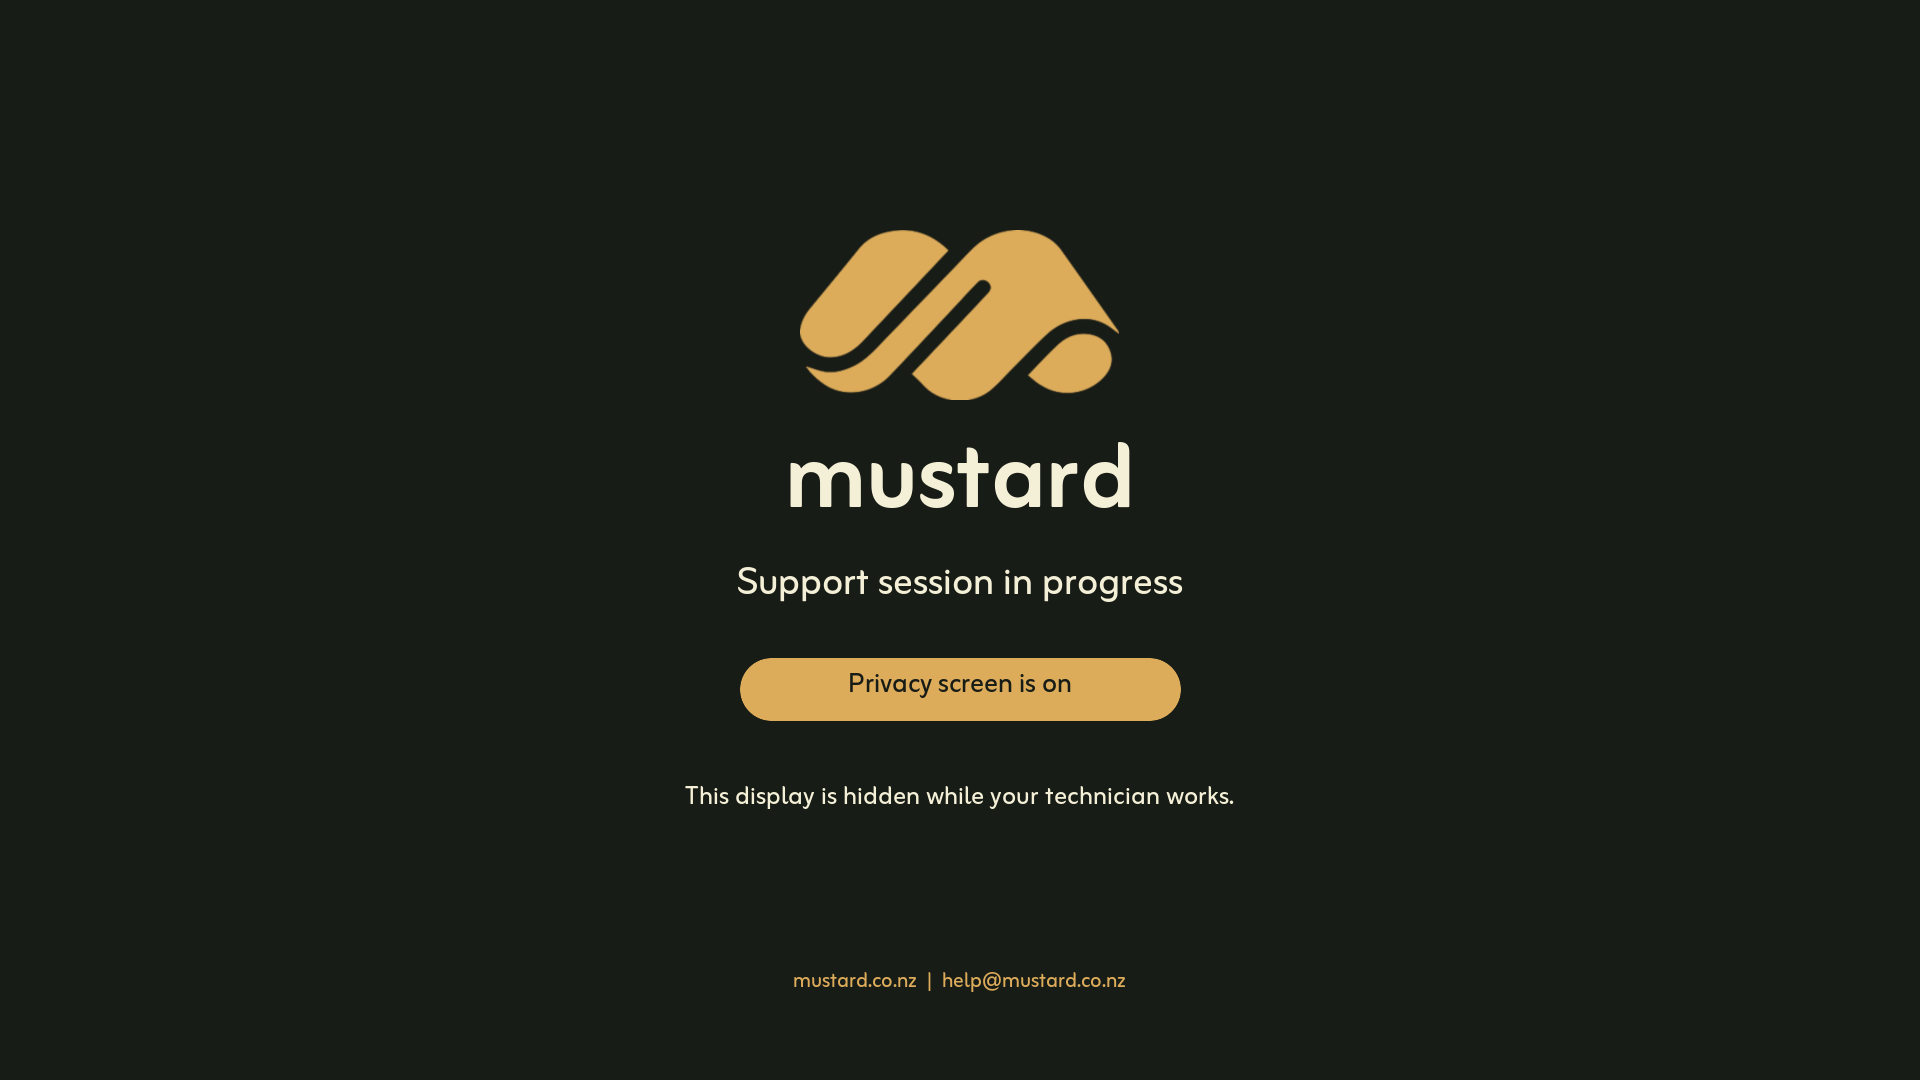
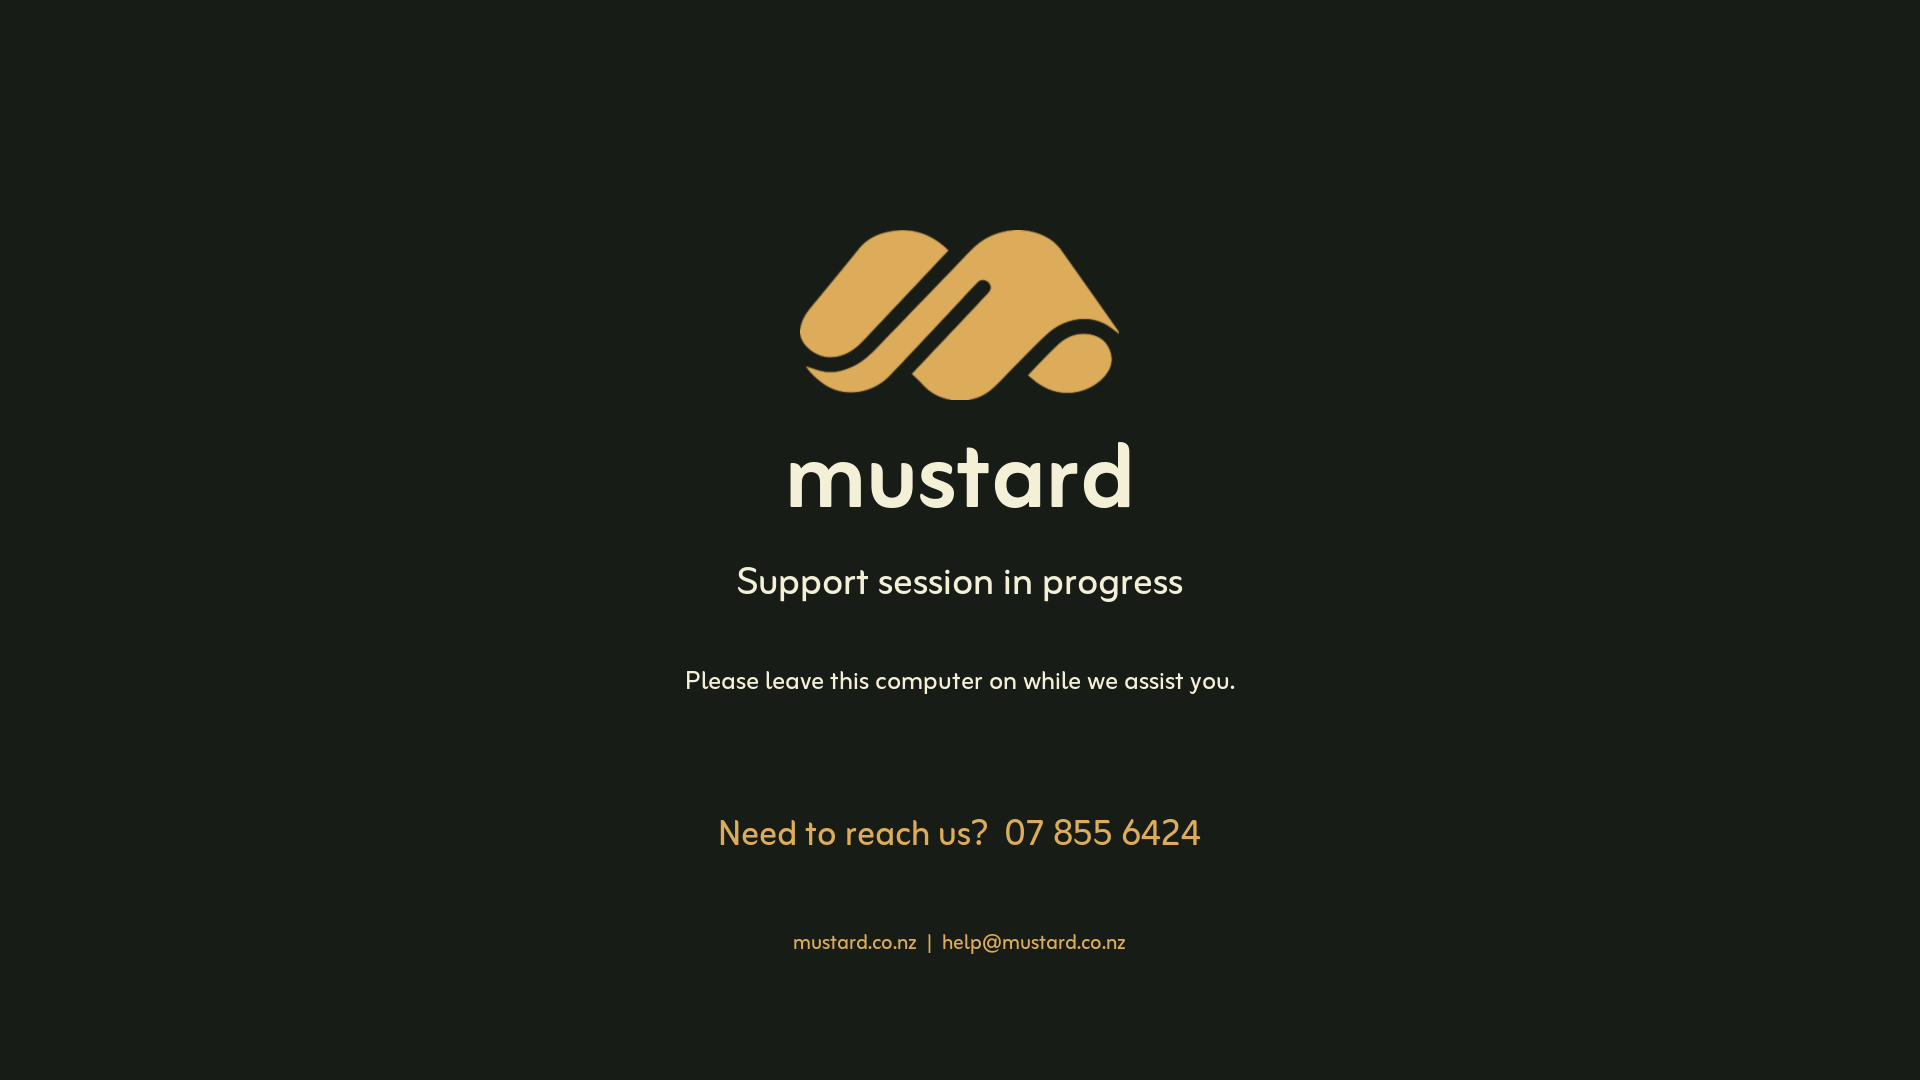
Refresh support screen and package Windows installers for Atera

Changed region(s): [[0.375, 0.7333, 0.6562, 0.7944], [0.3438, 0.6111, 0.625, 0.6722], [0.4062, 0.8556, 0.5938, 0.9167]]

diff --git a/res/mustard/generate.py b/res/mustard/generate.py
@@ -47,13 +47,12 @@ def main():
             "-gravity", "north", "-annotate", "+0+400", "mustard",
             "-font", "Zain-Regular.ttf", "-pointsize", "48",
             "-annotate", "+0+550", "Support session in progress",
-            "-fill", "#DDAC5B", "-draw", "roundrectangle 740,658 1180,720 31,31",
-            "-fill", "#181C16", "-pointsize", "34",
-            "-annotate", "+0+661", "Privacy screen is on",
             "-fill", "#F4EFD7", "-pointsize", "32",
-            "-annotate", "+0+775", "This display is hidden while your technician works.",
-            "-fill", "#DDAC5B", "-pointsize", "26",
-            "-annotate", "+0+963", "mustard.co.nz  |  help@mustard.co.nz",
+            "-annotate", "+0+660", "Please leave this computer on while we assist you.",
+            "-fill", "#DDAC5B", "-pointsize", "44",
+            "-annotate", "+0+805", "Need to reach us?  07 855 6424",
+            "-pointsize", "26",
+            "-annotate", "+0+925", "mustard.co.nz  |  help@mustard.co.nz",
             "-depth", "8", "privacy.png",
         )
 

diff --git a/res/mustard/README.md b/res/mustard/README.md
@@ -72,6 +72,10 @@ side using the existing Linux packages.
 
 ## Windows privacy screen
 
+The client-facing screen says **Support session in progress**, with a request to
+leave the computer on and the office number **07 855 6424**. It does not describe
+the session as hidden or display a privacy-status badge.
+
 The privacy window is rendered by **WindowInjection.dll**, from the separately
 built RustDeskTempTopMostWindow project. For a local helper build, check out the
 same pinned commit used by `third-party-RustDeskTempTopMostWindow.yml`, then run:
@@ -86,11 +90,58 @@ signing and creating the portable installer. For the reusable helper workflow,
 pass `mustard-branding: true`; existing callers default to the stock image.
 Keep the generated helper source with the release's corresponding source materials.
 
+`mustard-windows-package.yml` can refresh Windows packages without rebuilding the
+client or codec dependencies. It takes a desktop build run ID, verifies its edition,
+downloads that run's compiled Windows bundles, rebuilds only the image helper and
+portable wrapper, and produces named MSI/EXE files plus `SHA256SUMS`. Its initial
+push-triggered package branches reference the two desktop runs from this change;
+for subsequent releases use the workflow's explicit `source-run-id` input.
+
 The artwork applies to Windows privacy modes that use the topmost window helper.
 Virtual-display modes and macOS display blanking do not show this image. No privacy
 or capture logic has changed. Incoming-only mode retains upstream's verified
 switch-sides exception; it is not a strict ban on all outgoing network traffic
 or an authorization policy for incoming technicians.
+
+## Atera deployment
+
+Use the **MustardSupport** MSI for customer machines. Atera supports uploading an
+MSI to Scripts, with `/qn` arguments and **Run as System**. Use the package matching
+the device's x64 or ARM64 architecture. Both editions include MSI installers;
+the staff package is **MustardRemote**.
+
+For a hosted download or when the MSI exceeds the Atera upload limit, use
+`Install-MustardSupport.ps1` as a System script. Provide the HTTPS URL of the chosen
+Support MSI and its SHA-256 from the same release's `SHA256SUMS`:
+
+```powershell
+.\Install-MustardSupport.ps1 -MsiUri 'https://your-download-host/MustardSupport-x86_64.msi' -Sha256 '<64-character-release-sha256>'
+```
+
+The script requires administrator privileges, checks the download hash, installs
+with `/qn /norestart`, and writes the installer log under `ProgramData\Mustard\Logs`.
+It does not deploy through Atera by itself. Publish the selected MSI to your download
+host or upload it in Atera before rollout. It neither removes AnyDesk/other RustDesk
+installations nor sets a shared unattended-access password.
+
+[Atera's MSI/script deployment instructions](https://support.atera.com/hc/en-us/articles/235215188-Create-upload-and-generate-scripts).
+
+## Connection direction and source IP
+
+Incoming-only mode governs remote-session initiation. A working session exchanges
+network traffic in both directions, and clients establish connections to the ID/relay
+server. An endpoint firewall sees the relay address for relayed sessions, so a firewall
+rule alone cannot distinguish a staff controller from another controller behind that
+relay. The relay service also accepts customer connections; restricting its entire
+port to the office IP would block those customers.
+
+This checkout's existing `whitelist` option checks the session's peer address before
+login, including the address passed through the relay path. A fixed office or VPN
+exit IP can be allowlisted there; keep password/user approval as well. A roaming
+technician needs a known exit IP to use an IP restriction consistently. No source-IP
+restriction has been applied yet: the permitted staff addresses are still required.
+
+[RustDesk's IP allowlist reference](https://rustdesk.com/docs/en/self-host/client-configuration/advanced-settings/#whitelist).
 
 ## Artwork
 
